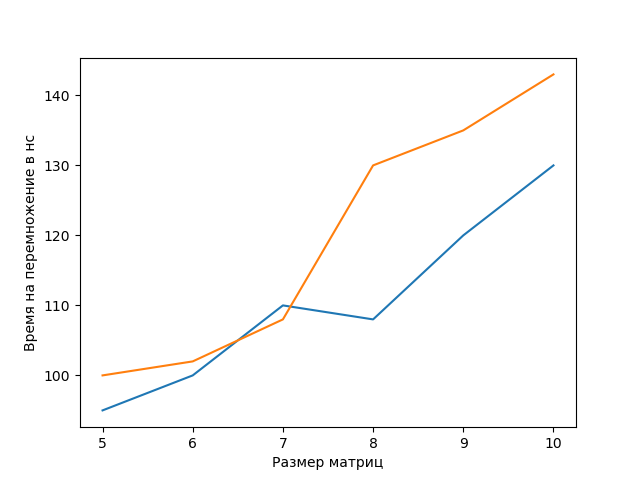
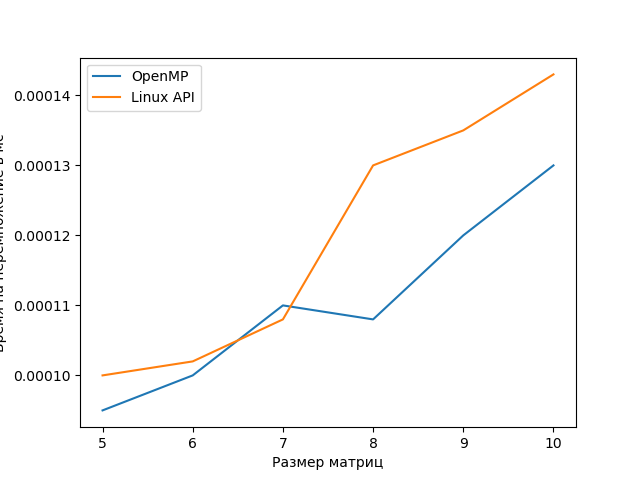
last python commit

Changed region(s): [[0.0, 0.2812, 0.125, 0.8125], [0.0, 0.125, 0.3125, 0.2188]]

diff --git a/src/graphics.py b/src/graphics.py
@@ -2,15 +2,15 @@ import matplotlib.pyplot as plt
 
 def get_lines_from_file(filename):
     file = open(filename, 'r')
-    open_mp = [int(x) for x in file.readline().split('ns') if x.isdigit()]
-    linux = [int(x) for x in file.readline().split('ns') if x.isdigit()]
+    open_mp = [float(int(x)/1000000) for x in file.readline().split('ns') if x.isdigit()]
+    linux = [float(int(x)/1000000) for x in file.readline().split('ns') if x.isdigit()]
     return [open_mp, linux]
 
 def creat_graphic(open_mp, linux):
     x = list(range(5,5+len(open_mp)))
 
     plt.xlabel("Размер матриц")
-    plt.ylabel("Время на перемножение в нс")
+    plt.ylabel("Время на перемножение в мс")
 
     plt.plot(x, open_mp, label='OpenMP')
     plt.plot(x, linux, label='Linux API')
